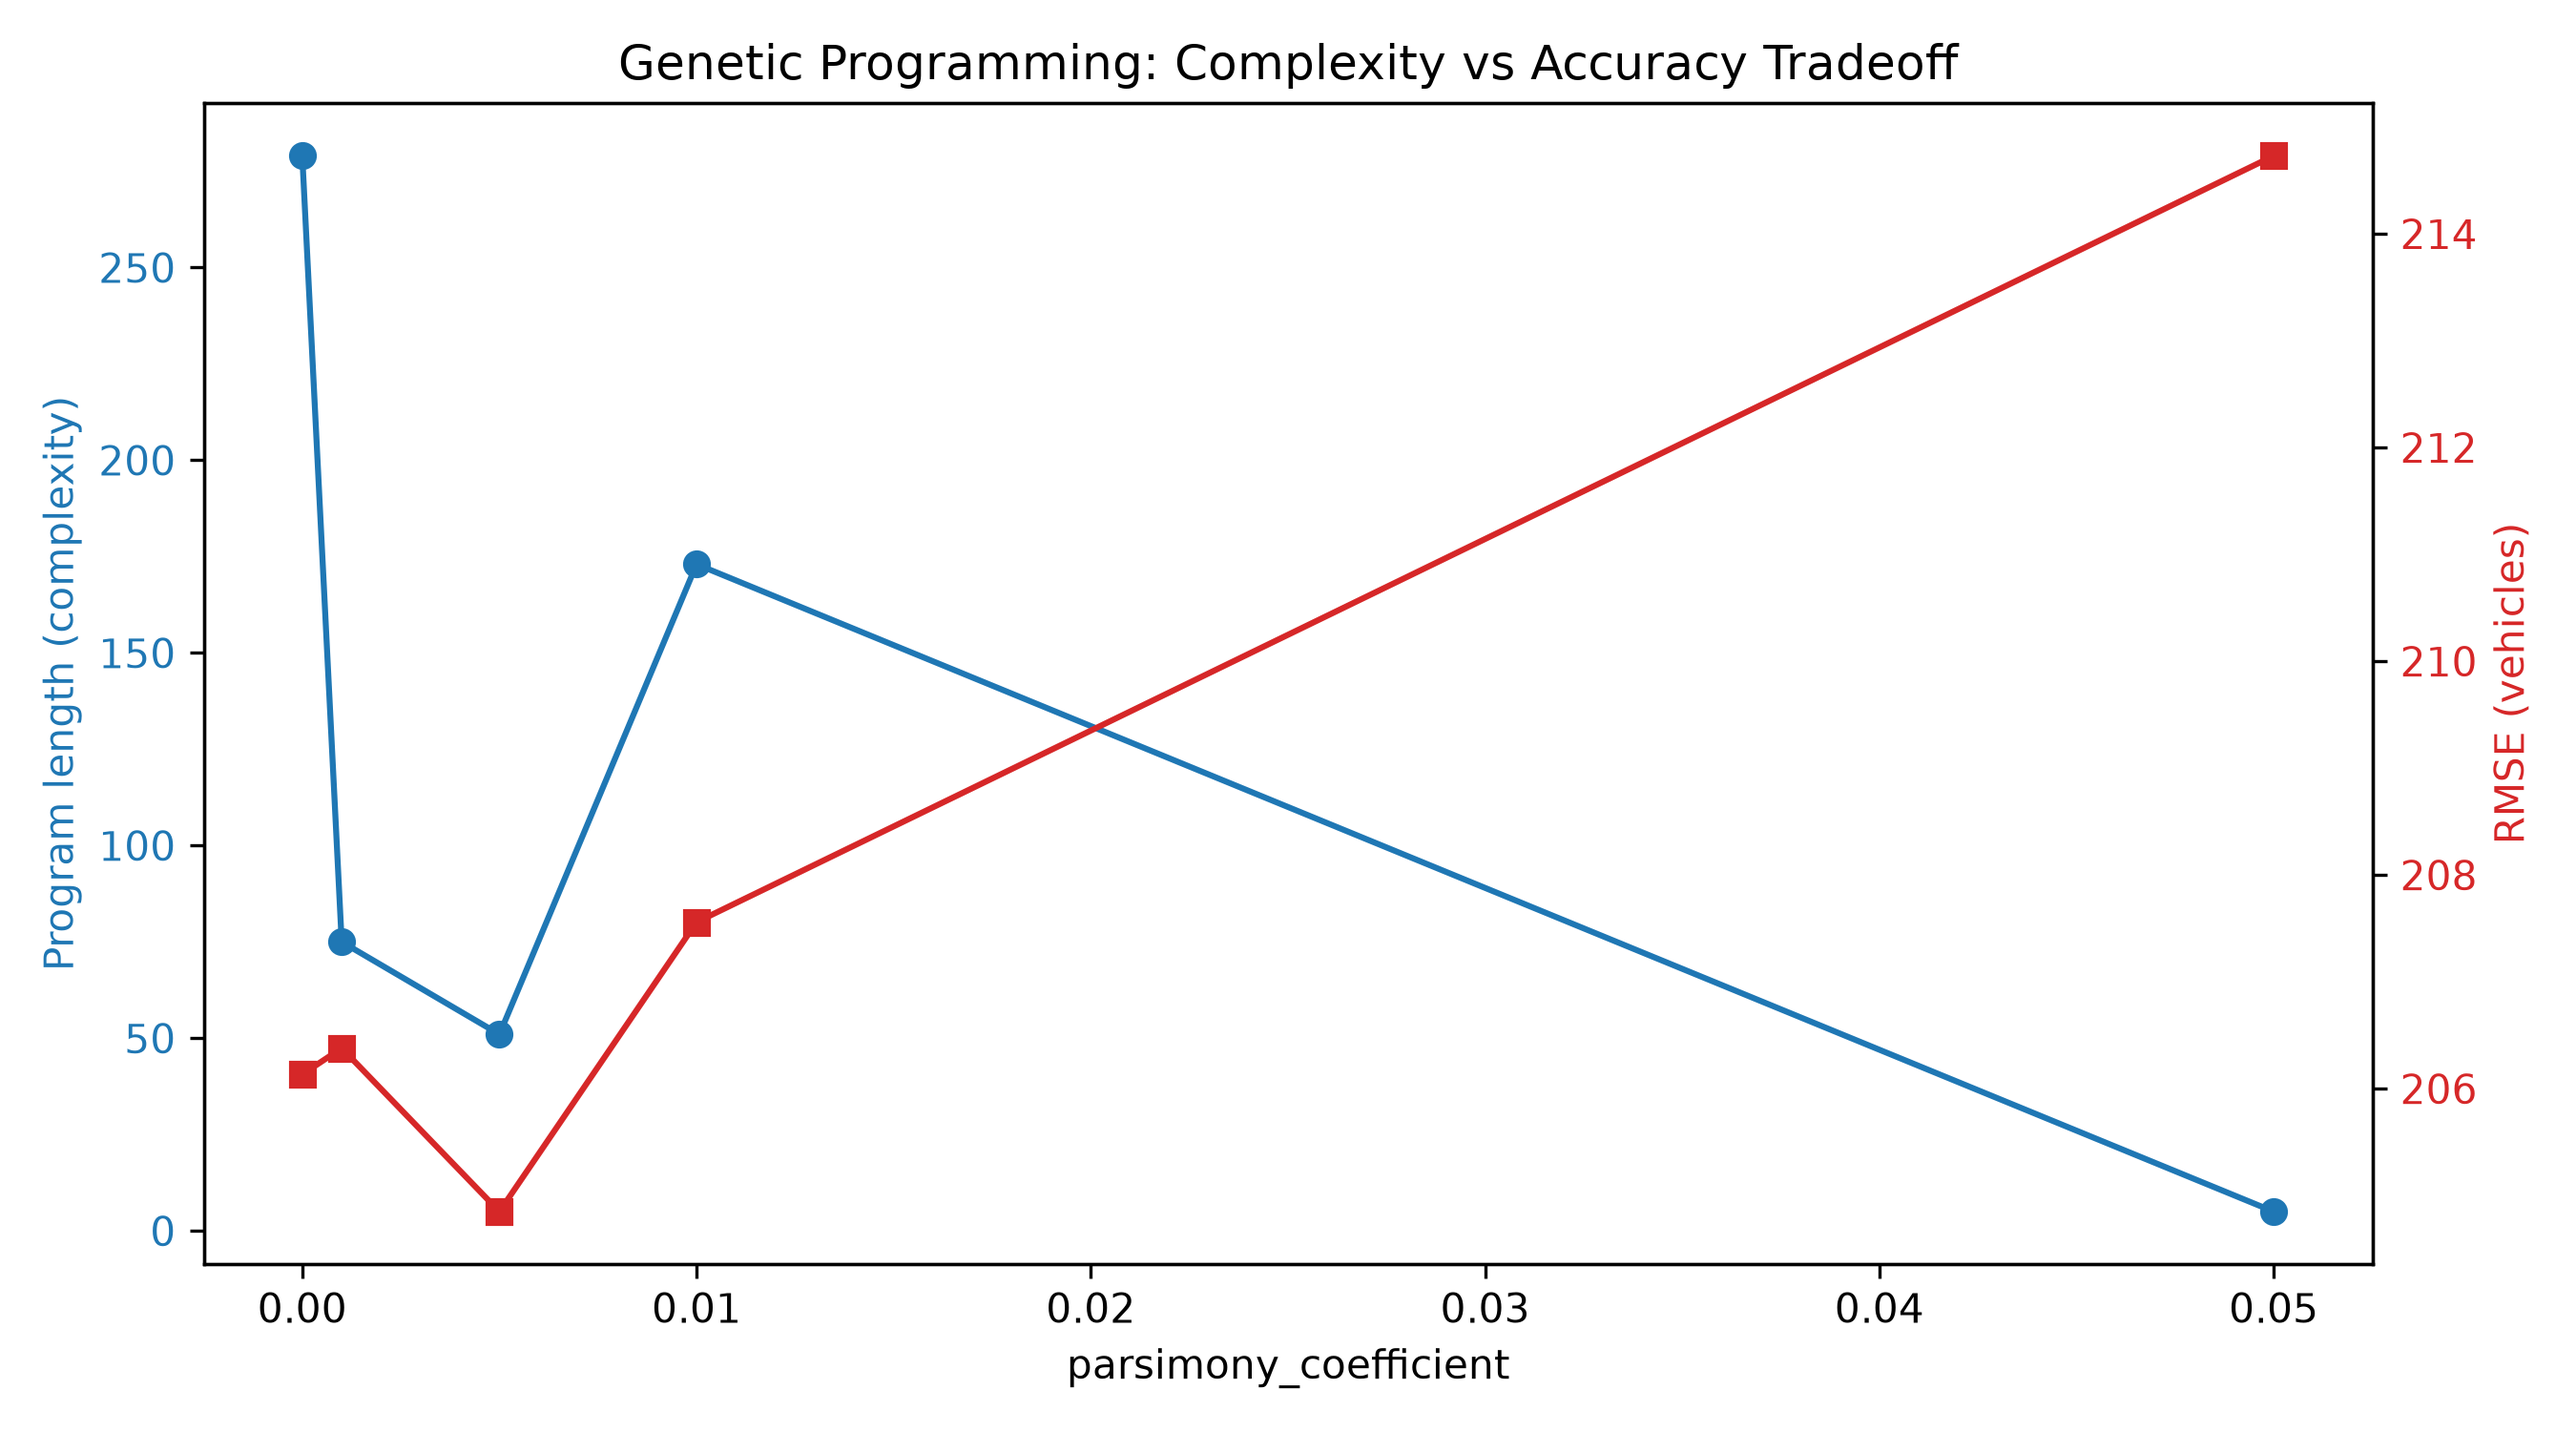
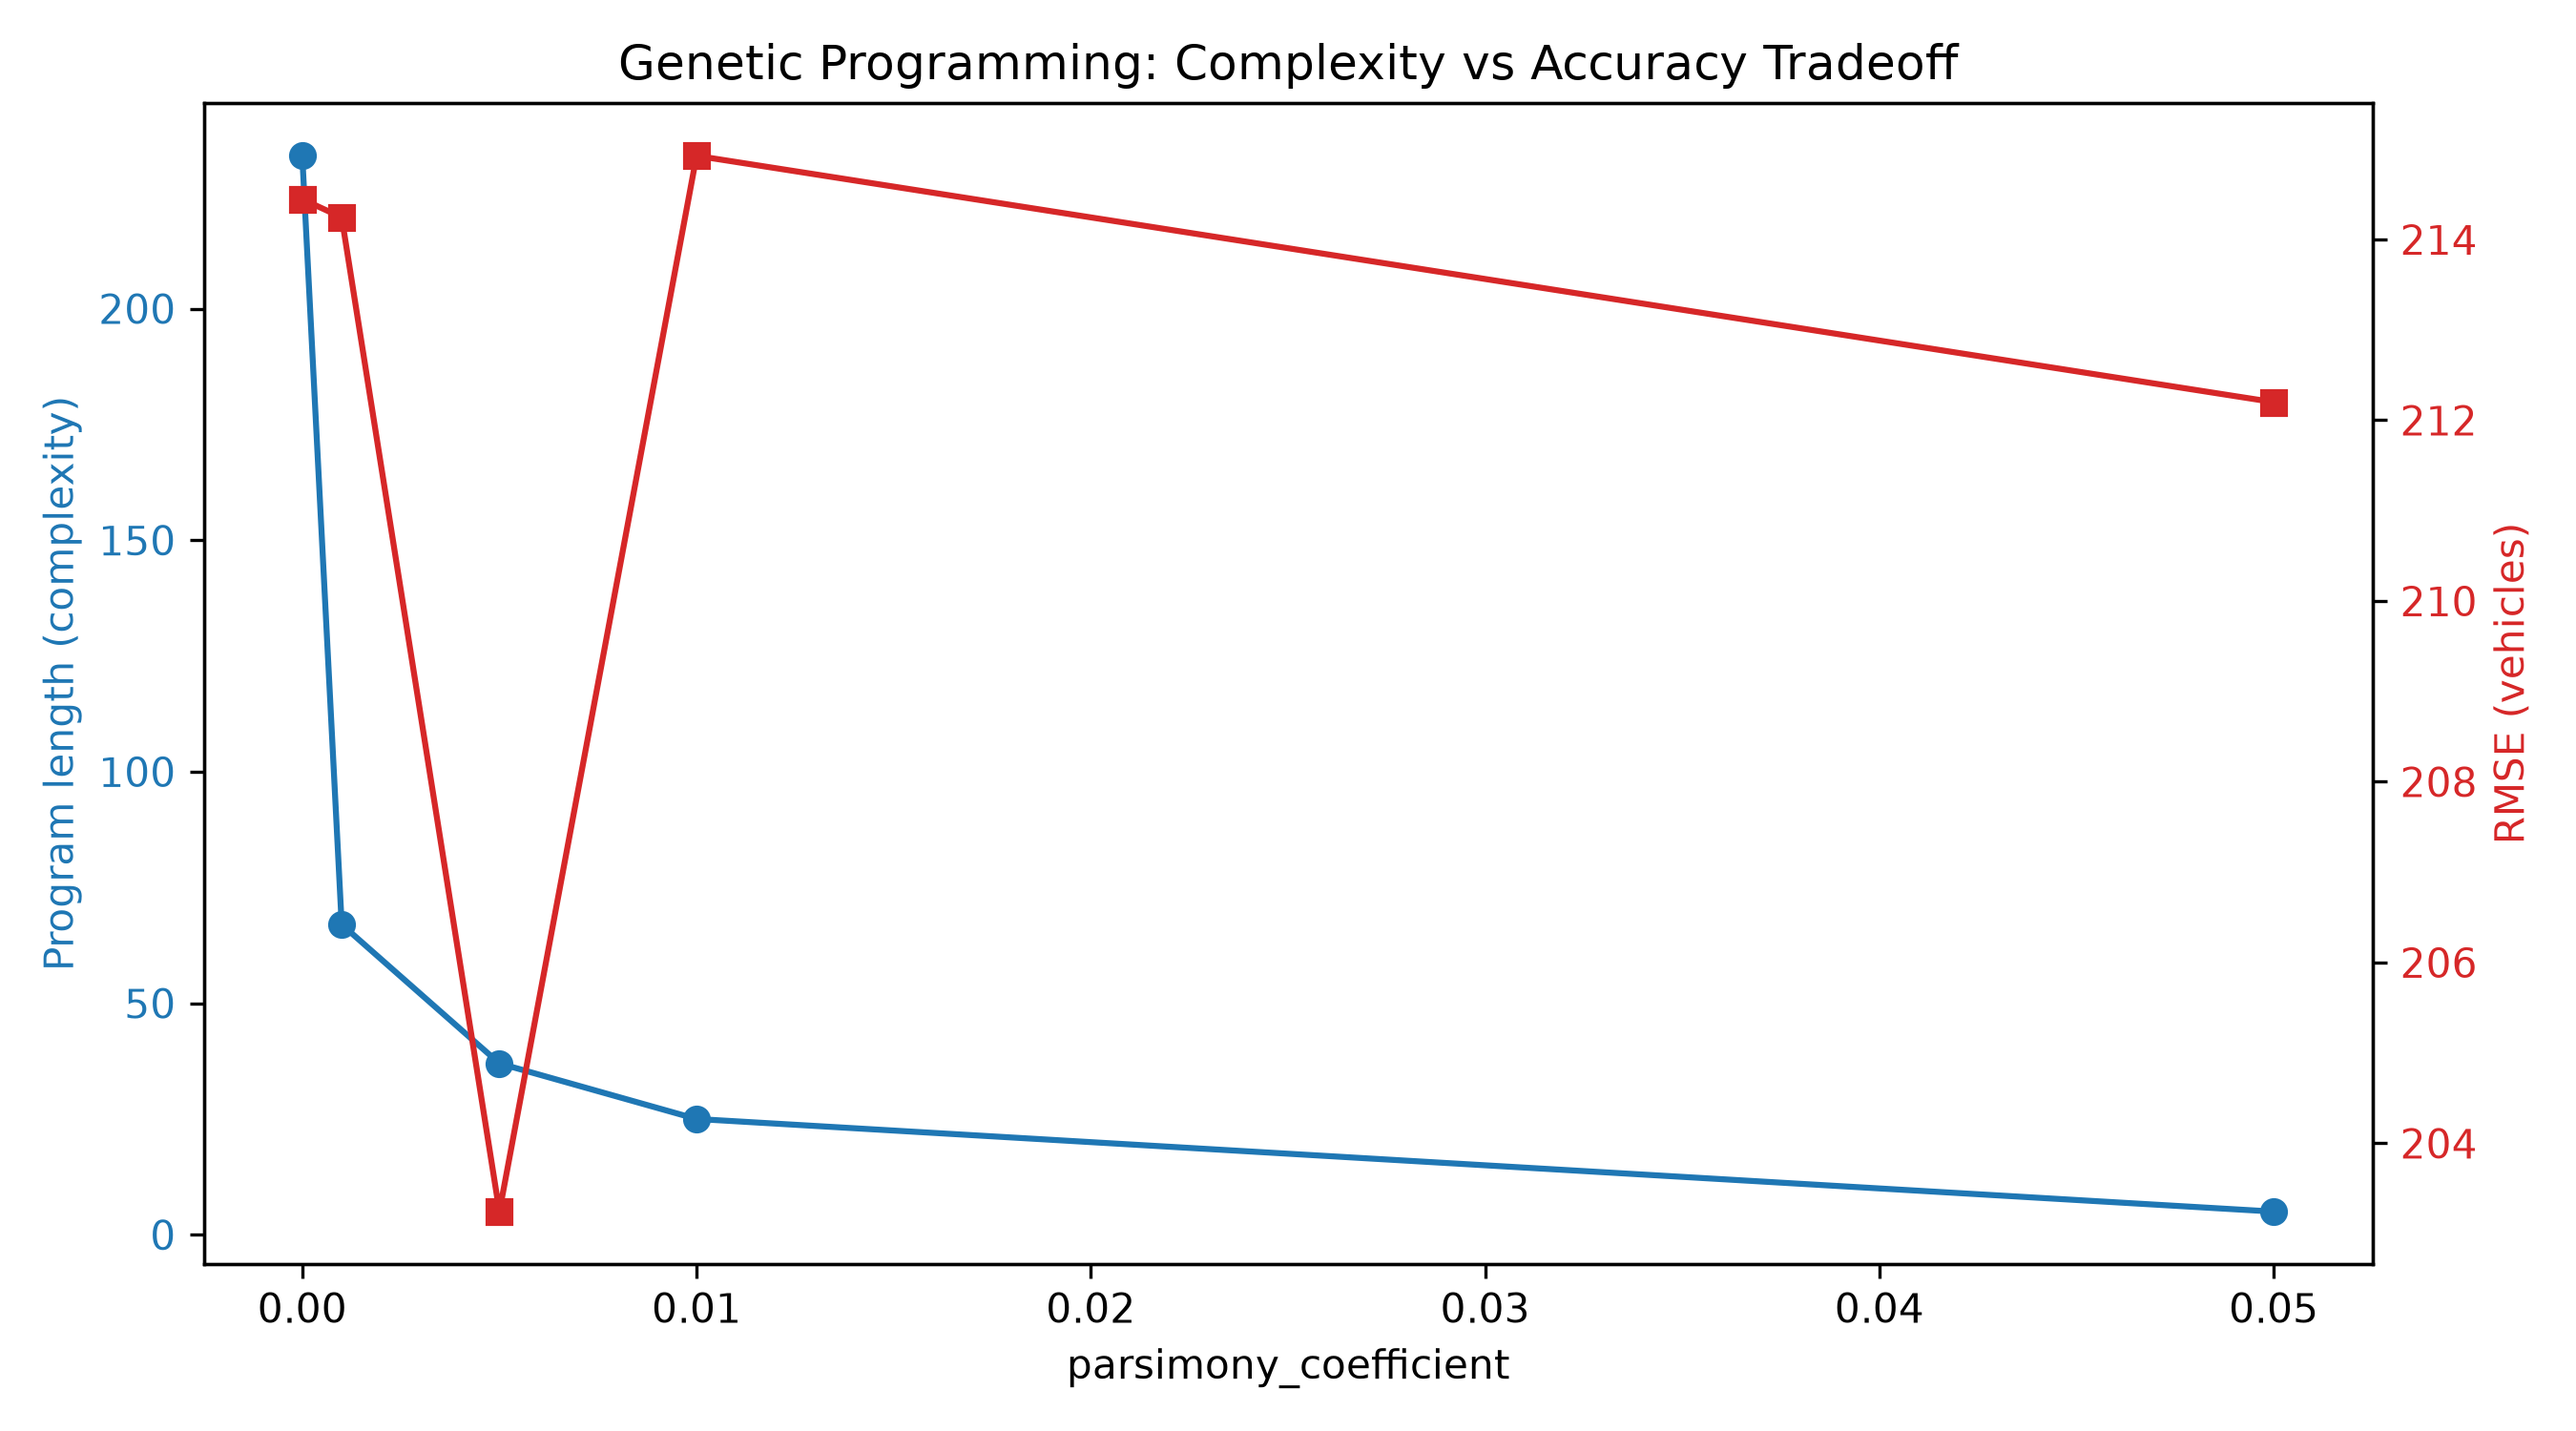
recent updated version of readme and code being deployed

diff --git a/Traffic Intelligence/Code/traffic_flow_prediction_v2.py b/Traffic Intelligence/Code/traffic_flow_prediction_v2.py
@@ -83,7 +83,7 @@ GP_POPULATION = 1000
 # Columns with many distinct values -> target encoding
 HIGH_CARDINALITY = ["count_point_id", "road_name"]
 # Columns with few distinct values -> one-hot encoding
-LOW_CARDINALITY_CATEGORICAL = ["road_type", "direction_of_travel"]
+LOW_CARDINALITY_CATEGORICAL = ["road_type", "direction_of_travel", "flow_direction"]
 
 OUTPUT_DIR = Path("outputs")
 OUTPUT_DIR.mkdir(exist_ok=True)
@@ -106,12 +106,89 @@ df["is_morning_peak"] = df["hour"].isin([7, 8, 9]).astype(int)
 df["is_evening_peak"] = df["hour"].isin([16, 17, 18]).astype(int)
 df["is_peak_hour"] = df["hour"].isin([7, 8, 9, 16, 17, 18]).astype(int)
 
+# ---------------------------------------------------------------------------
+# Directional in/out-of-Birmingham feature
+# ---------------------------------------------------------------------------
+# direction_of_travel is only a compass direction (N/S/E/W) — it doesn't say
+# whether that direction means "into Birmingham" or "out of it", since that
+# depends on where the count point sits relative to the city centre. We
+# compute the bearing from the city centre to each count point, compare it
+# to the recorded direction of travel, and classify each observation as:
+#   - inbound  : travelling roughly opposite the centre->point bearing
+#                (i.e. toward the centre)
+#   - outbound : travelling roughly along the centre->point bearing
+#                (i.e. away from the centre)
+#   - lateral  : travelling roughly perpendicular to that bearing
+#                (a ring-road-type movement, neither in nor out)
+BIRMINGHAM_CENTER_LAT = 52.4796
+BIRMINGHAM_CENTER_LON = -1.9026
+
+CARDINAL_OPPOSITE = {"N": "S", "S": "N", "E": "W", "W": "E"}
+
+
+def bearing_to_cardinal(lat_center, lon_center, lat_point, lon_point):
+    """Nearest compass cardinal (N/E/S/W) from the centre to a point."""
+    d_lat = lat_point - lat_center
+    d_lon = lon_point - lon_center
+    angle = np.degrees(np.arctan2(d_lon, d_lat)) % 360
+    # 4-way cardinal buckets, matching the N/E/S/W categories in the data
+    if angle >= 315 or angle < 45:
+        return "N"
+    elif angle < 135:
+        return "E"
+    elif angle < 225:
+        return "S"
+    else:
+        return "W"
+
+
+df["bearing_cardinal"] = [
+    bearing_to_cardinal(BIRMINGHAM_CENTER_LAT, BIRMINGHAM_CENTER_LON, lat, lon)
+    for lat, lon in zip(df["latitude"], df["longitude"])
+]
+
+
+def classify_flow(direction, bearing_cardinal):
+    if direction == CARDINAL_OPPOSITE.get(bearing_cardinal):
+        return "inbound"
+    elif direction == bearing_cardinal:
+        return "outbound"
+    else:
+        return "lateral"
+
+
+df["flow_direction"] = [
+    classify_flow(d, b) for d, b in zip(df["direction_of_travel"], df["bearing_cardinal"])
+]
+
+print("\nFlow direction counts:")
+print(df["flow_direction"].value_counts())
+
+print("\nMean traffic by flow direction:")
+print(df.groupby("flow_direction")["all_motor_vehicles"].mean())
+
+# Chart: average traffic by hour, split by flow direction — checks for the
+# classic commute asymmetry (inbound AM peak, outbound PM peak)
+hourly_flow = df.groupby(["hour", "flow_direction"])["all_motor_vehicles"].mean().unstack()
+plt.figure(figsize=(10, 6))
+for flow in hourly_flow.columns:
+    plt.plot(hourly_flow.index, hourly_flow[flow], marker="o", label=flow)
+plt.title("Average Traffic Flow by Hour, Split by Direction Relative to Birmingham Centre")
+plt.xlabel("Hour of Day")
+plt.ylabel("Mean All Motor Vehicles")
+plt.legend(title="Flow direction")
+plt.tight_layout()
+plt.savefig(OUTPUT_DIR / "hourly_traffic_by_flow_direction.png", dpi=300)
+plt.close()
+print(f"\nSaved: {OUTPUT_DIR / 'hourly_traffic_by_flow_direction.png'}")
+
 df["count_point_id"] = df["count_point_id"].astype(str)
 
 target = "all_motor_vehicles"
 features = [
     "year", "hour", "count_point_id", "road_type", "road_name",
     "direction_of_travel", "latitude", "longitude", "is_peak_hour",
+    "flow_direction",
 ]
 
 X = df[features]
@@ -388,6 +465,82 @@ if USE_GPLEARN:
         plt.title("Genetic Programming: Complexity vs Accuracy Tradeoff")
         fig.tight_layout()
         plt.savefig(OUTPUT_DIR / "gp_parsimony_tradeoff.png", dpi=300)
+        plt.close()
+
+        # ---------------------------------------------------------------
+        # Robustness check: is the short, accurate pc=0.05 result stable,
+        # or did it just get lucky on one random seed? GP's search is
+        # stochastic, so we refit at a few seeds for both the unconstrained
+        # baseline and the pc=0.05 "interpretable" candidate and compare
+        # the spread of length/RMSE/R2.
+        # ---------------------------------------------------------------
+        ROBUSTNESS_SEEDS = [42, 1, 7, 123, 2024]
+        ROBUSTNESS_PARSIMONY_VALUES = [0.0, 0.05]
+
+        log("Running multi-seed robustness check for GP (pc=0.0 and pc=0.05)...")
+        robustness_rows = []
+        for pc in ROBUSTNESS_PARSIMONY_VALUES:
+            for seed in ROBUSTNESS_SEEDS:
+                t_start = time.time()
+                gp_seed = SymbolicRegressor(
+                    population_size=GP_POPULATION,
+                    generations=GP_GENERATIONS,
+                    parsimony_coefficient=pc,
+                    random_state=seed,
+                    verbose=0,
+                    n_jobs=-1,
+                )
+                gp_seed.fit(X_train_processed, y_train)
+                preds_seed = gp_seed.predict(X_test_processed)
+                seed_rmse = np.sqrt(mean_squared_error(y_test, preds_seed))
+                seed_r2 = r2_score(y_test, preds_seed)
+                seed_length = gp_seed._program.length_
+                robustness_rows.append({
+                    "parsimony_coefficient": pc,
+                    "seed": seed,
+                    "program_length": seed_length,
+                    "RMSE": seed_rmse,
+                    "R2": seed_r2,
+                })
+                log(f"  pc={pc}, seed={seed}: length={seed_length}, RMSE={seed_rmse:.1f}, "
+                    f"R2={seed_r2:.4f} ({time.time() - t_start:.1f}s)")
+
+        robustness_df = pd.DataFrame(robustness_rows)
+        robustness_summary = robustness_df.groupby("parsimony_coefficient").agg(
+            length_mean=("program_length", "mean"),
+            length_std=("program_length", "std"),
+            length_min=("program_length", "min"),
+            length_max=("program_length", "max"),
+            RMSE_mean=("RMSE", "mean"),
+            RMSE_std=("RMSE", "std"),
+            R2_mean=("R2", "mean"),
+            R2_std=("R2", "std"),
+        ).reset_index()
+
+        print("\n=== GP robustness check across 5 random seeds ===")
+        print(robustness_df)
+        print("\n=== Summary (mean ± std across seeds) ===")
+        print(robustness_summary)
+
+        robustness_df.to_csv(OUTPUT_DIR / "gp_robustness_raw.csv", index=False)
+        robustness_summary.to_csv(OUTPUT_DIR / "gp_robustness_summary.csv", index=False)
+
+        # Chart: length and RMSE spread across seeds for each parsimony setting
+        fig, axes = plt.subplots(1, 2, figsize=(13, 5))
+        for pc in ROBUSTNESS_PARSIMONY_VALUES:
+            subset = robustness_df[robustness_df["parsimony_coefficient"] == pc]
+            axes[0].scatter([pc] * len(subset), subset["program_length"], alpha=0.7, s=60)
+            axes[1].scatter([pc] * len(subset), subset["RMSE"], alpha=0.7, s=60)
+        axes[0].set_title("Program Length Across 5 Seeds")
+        axes[0].set_xlabel("parsimony_coefficient")
+        axes[0].set_ylabel("Program length")
+        axes[0].set_xticks(ROBUSTNESS_PARSIMONY_VALUES)
+        axes[1].set_title("RMSE Across 5 Seeds")
+        axes[1].set_xlabel("parsimony_coefficient")
+        axes[1].set_ylabel("RMSE (vehicles)")
+        axes[1].set_xticks(ROBUSTNESS_PARSIMONY_VALUES)
+        plt.tight_layout()
+        plt.savefig(OUTPUT_DIR / "gp_robustness_spread.png", dpi=300)
         plt.close()
 
     except ImportError:

diff --git a/README.md b/README.md
@@ -140,9 +140,29 @@ A follow-up ablation — refitting Random Forest with `count_point_id` removed e
 
 This refines the original conclusion: it isn't granular per-count-point detail that drives traffic flow, but road identity (e.g. the M6 vs a residential side road) and broad geographic position. `count_point_id` was mostly acting as a fine-grained proxy for information already present in `road_name` and coordinates, not contributing large amounts of genuinely new signal.
 
----
+**5. A parsimony-constrained Genetic Programming run found a genuinely interpretable formula, with minimal accuracy cost.**
+The unconstrained GP run (as reported above) produced a 279-node expression achieving R² 0.931 — accurate, but no more readable than a black box. Sweeping `parsimony_coefficient` (which penalises program length during evolution) across `[0.0, 0.001, 0.005, 0.01, 0.05]` found a dramatically shorter alternative at `parsimony_coefficient=0.05`: a **5-node expression achieving R² 0.926** — a drop of only 0.6 percentage points in R² for a **98% reduction in complexity** (279 nodes → 5).
 
-## Repository Structure
+That expression, translated into feature names, is:
+
+```
+predicted_traffic ≈ location_average − (is_major_road × latitude)
+```
+
+Since Birmingham's latitude is ~52.5, the second term is effectively a near-constant downward adjustment applied only to major roads. In plain terms, GP rediscovered a simple, explainable rule: *predict each location's historical average traffic, with a fixed adjustment for major roads* — a genuinely human-readable model, not a black box. This is the strongest evidence in the project for the "explainable computational intelligence" aim stated at the outset.
+
+One caveat: the length-vs-accuracy relationship was not perfectly monotonic across the sweep (`parsimony_coefficient=0.01` produced a *longer* expression, 173 nodes, than `0.001`'s 75 nodes, with worse RMSE too) — a hint that single runs at each setting might not be representative. A follow-up multi-seed robustness check confirmed this suspicion, with an important result of its own:
+
+**Multi-seed robustness check (5 random seeds each):**
+
+| Setting | Length (mean ± std, range) | R² (mean ± std) |
+|---|---|---|
+| Unconstrained (pc=0.0) | 165 ± 132 (range: 53–335) | 0.9306 ± 0.0025 |
+| Parsimony-constrained (pc=0.05) | 6.6 ± 3.6 (range: 5–13) | 0.9266 ± 0.0011 |
+
+Accuracy is stable across seeds either way (R² varies by <0.003). But **complexity is wildly seed-dependent without parsimony pressure** — the unconstrained run swings from 53 to 335 nodes purely based on random seed, meaning the original 279-node expression wasn't a meaningful, reproducible result — it was one arbitrary point in a huge range. With `parsimony_coefficient=0.05`, complexity reliably stays small (5–13 nodes) across every seed tested, at a cost of only 0.004 mean R².
+
+**This is the project's strongest methodological finding**: symbolic regression's much-advertised interpretability is not automatic. Left unconstrained, GP's output complexity is essentially arbitrary and unreproducible even though its accuracy is stable. Interpretability had to be actively enforced via parsimony pressure — and once enforced, it was achieved reliably, at a small and consistent accuracy cost.
 
 ```
 smart-birmingham-traffic-intelligence/
